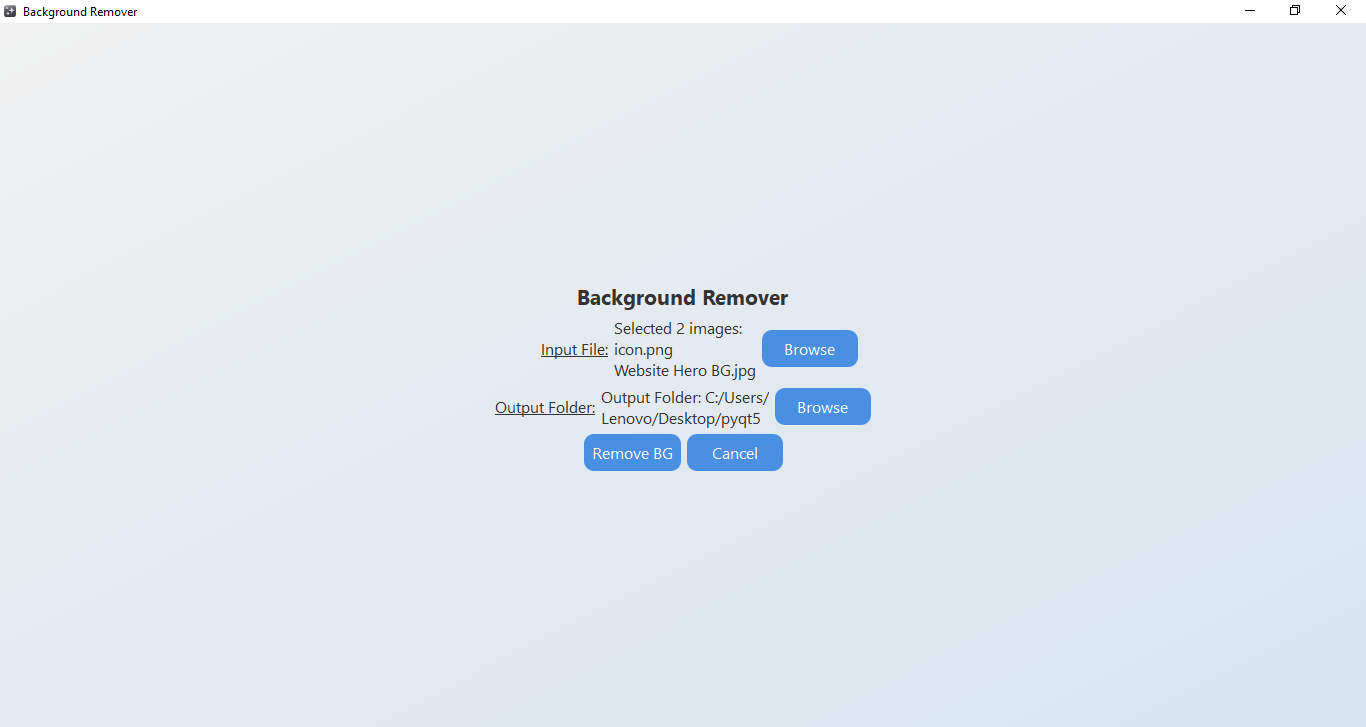
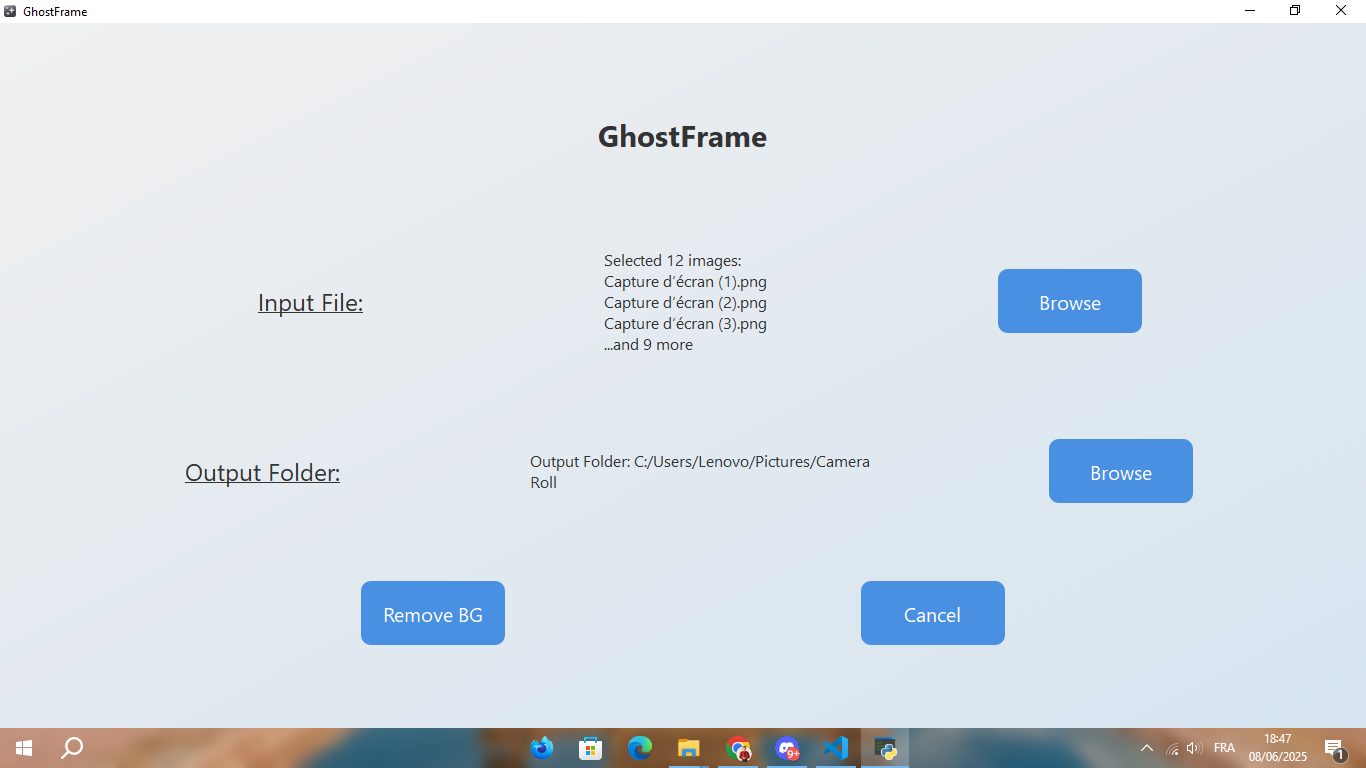
change ui

diff --git a/main.py b/main.py
@@ -1,14 +1,15 @@
-from PyQt5.uic import loadUi
 from PyQt5.QtWidgets import QApplication, QFileDialog, QMessageBox
+from datetime import datetime
 from PyQt5.QtGui import QIcon
+from PyQt5.uic import loadUi
 from rembg import remove
 from PIL import Image
 import sys
 import os
 import zipfile
-from datetime import datetime
 
-input_paths = []  # Now stores multiple input paths
+
+input_paths = []  # Stores multiple input paths
 output_dir = ""
 
 def remove_background(input_path, output_path):
@@ -24,7 +25,7 @@ def Btinput_click():
         file_list = "\n".join([os.path.basename(f) for f in files[:3]])  # Show first 3 filenames
         if len(files) > 3:
             file_list += f"\n...and {len(files)-3} more"
-        windows.Inpu.setText(f"Selected {len(files)} images:\n{file_list}")
+        windows.Input.setText(f"Selected {len(files)} images:\n{file_list}")
 
 def Btoutput_click():
     global output_dir
@@ -32,7 +33,7 @@ def Btoutput_click():
     if output_dir:
         windows.Output.setText(f"Output Folder: {output_dir}")
 
-def mgrl_click():
+def BtRemoveBG_click():
     if not input_paths or not output_dir:
         QMessageBox.warning(None, "Missing Paths", "Please select both input files and output folder.")
         return
@@ -82,11 +83,22 @@ def mgrl_click():
     if message:
         QMessageBox.information(None, "Processing Complete", "\n".join(message))
 
+def BtCancel_click():
+    global input_paths, output_dir
+    input_paths = []
+    output_dir = ""
+    windows.Input.clear()
+    windows.Output.clear()
+
 app = QApplication(sys.argv)
 windows = loadUi("gui.ui")
 app.setWindowIcon(QIcon("icon.png")) 
 windows.show()
+
+# Connect buttons to functions
 windows.Btinput.clicked.connect(Btinput_click)
 windows.Btoutput.clicked.connect(Btoutput_click)
-windows.mgrl.clicked.connect(mgrl_click)
+windows.BtRemoveBG.clicked.connect(BtRemoveBG_click)
+windows.BtCancel.clicked.connect(BtCancel_click)
+
 app.exec_()
